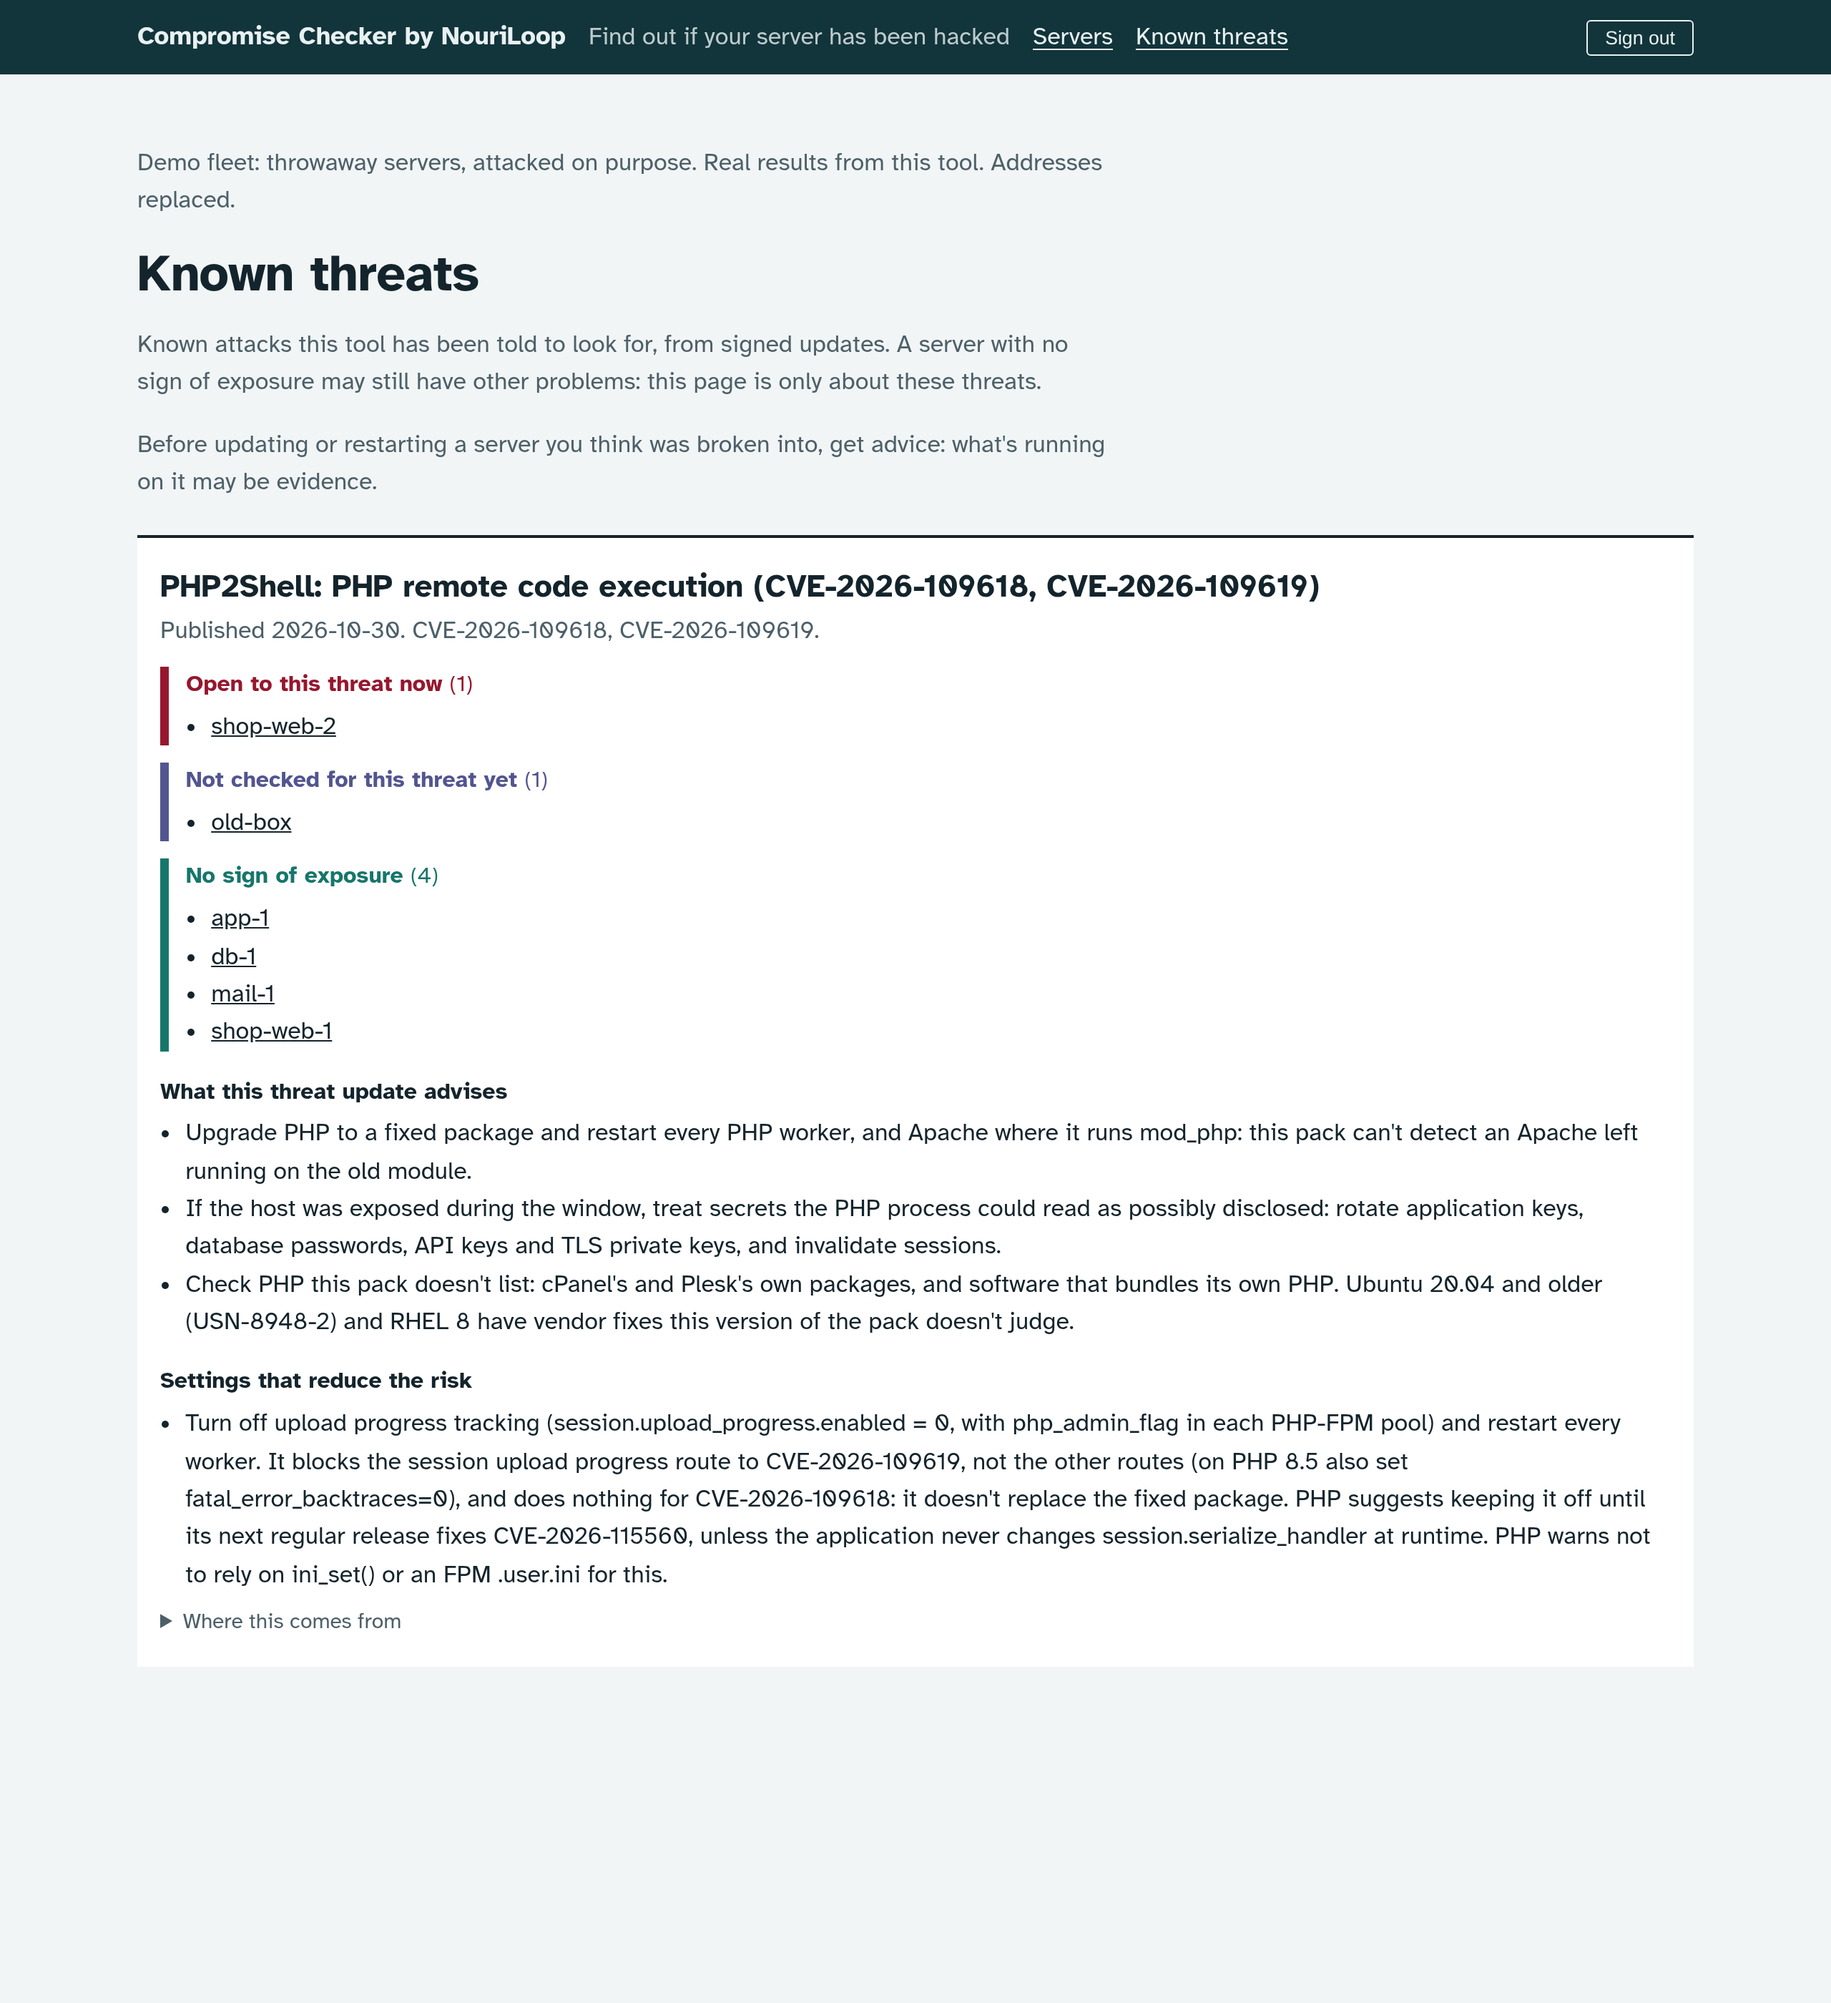
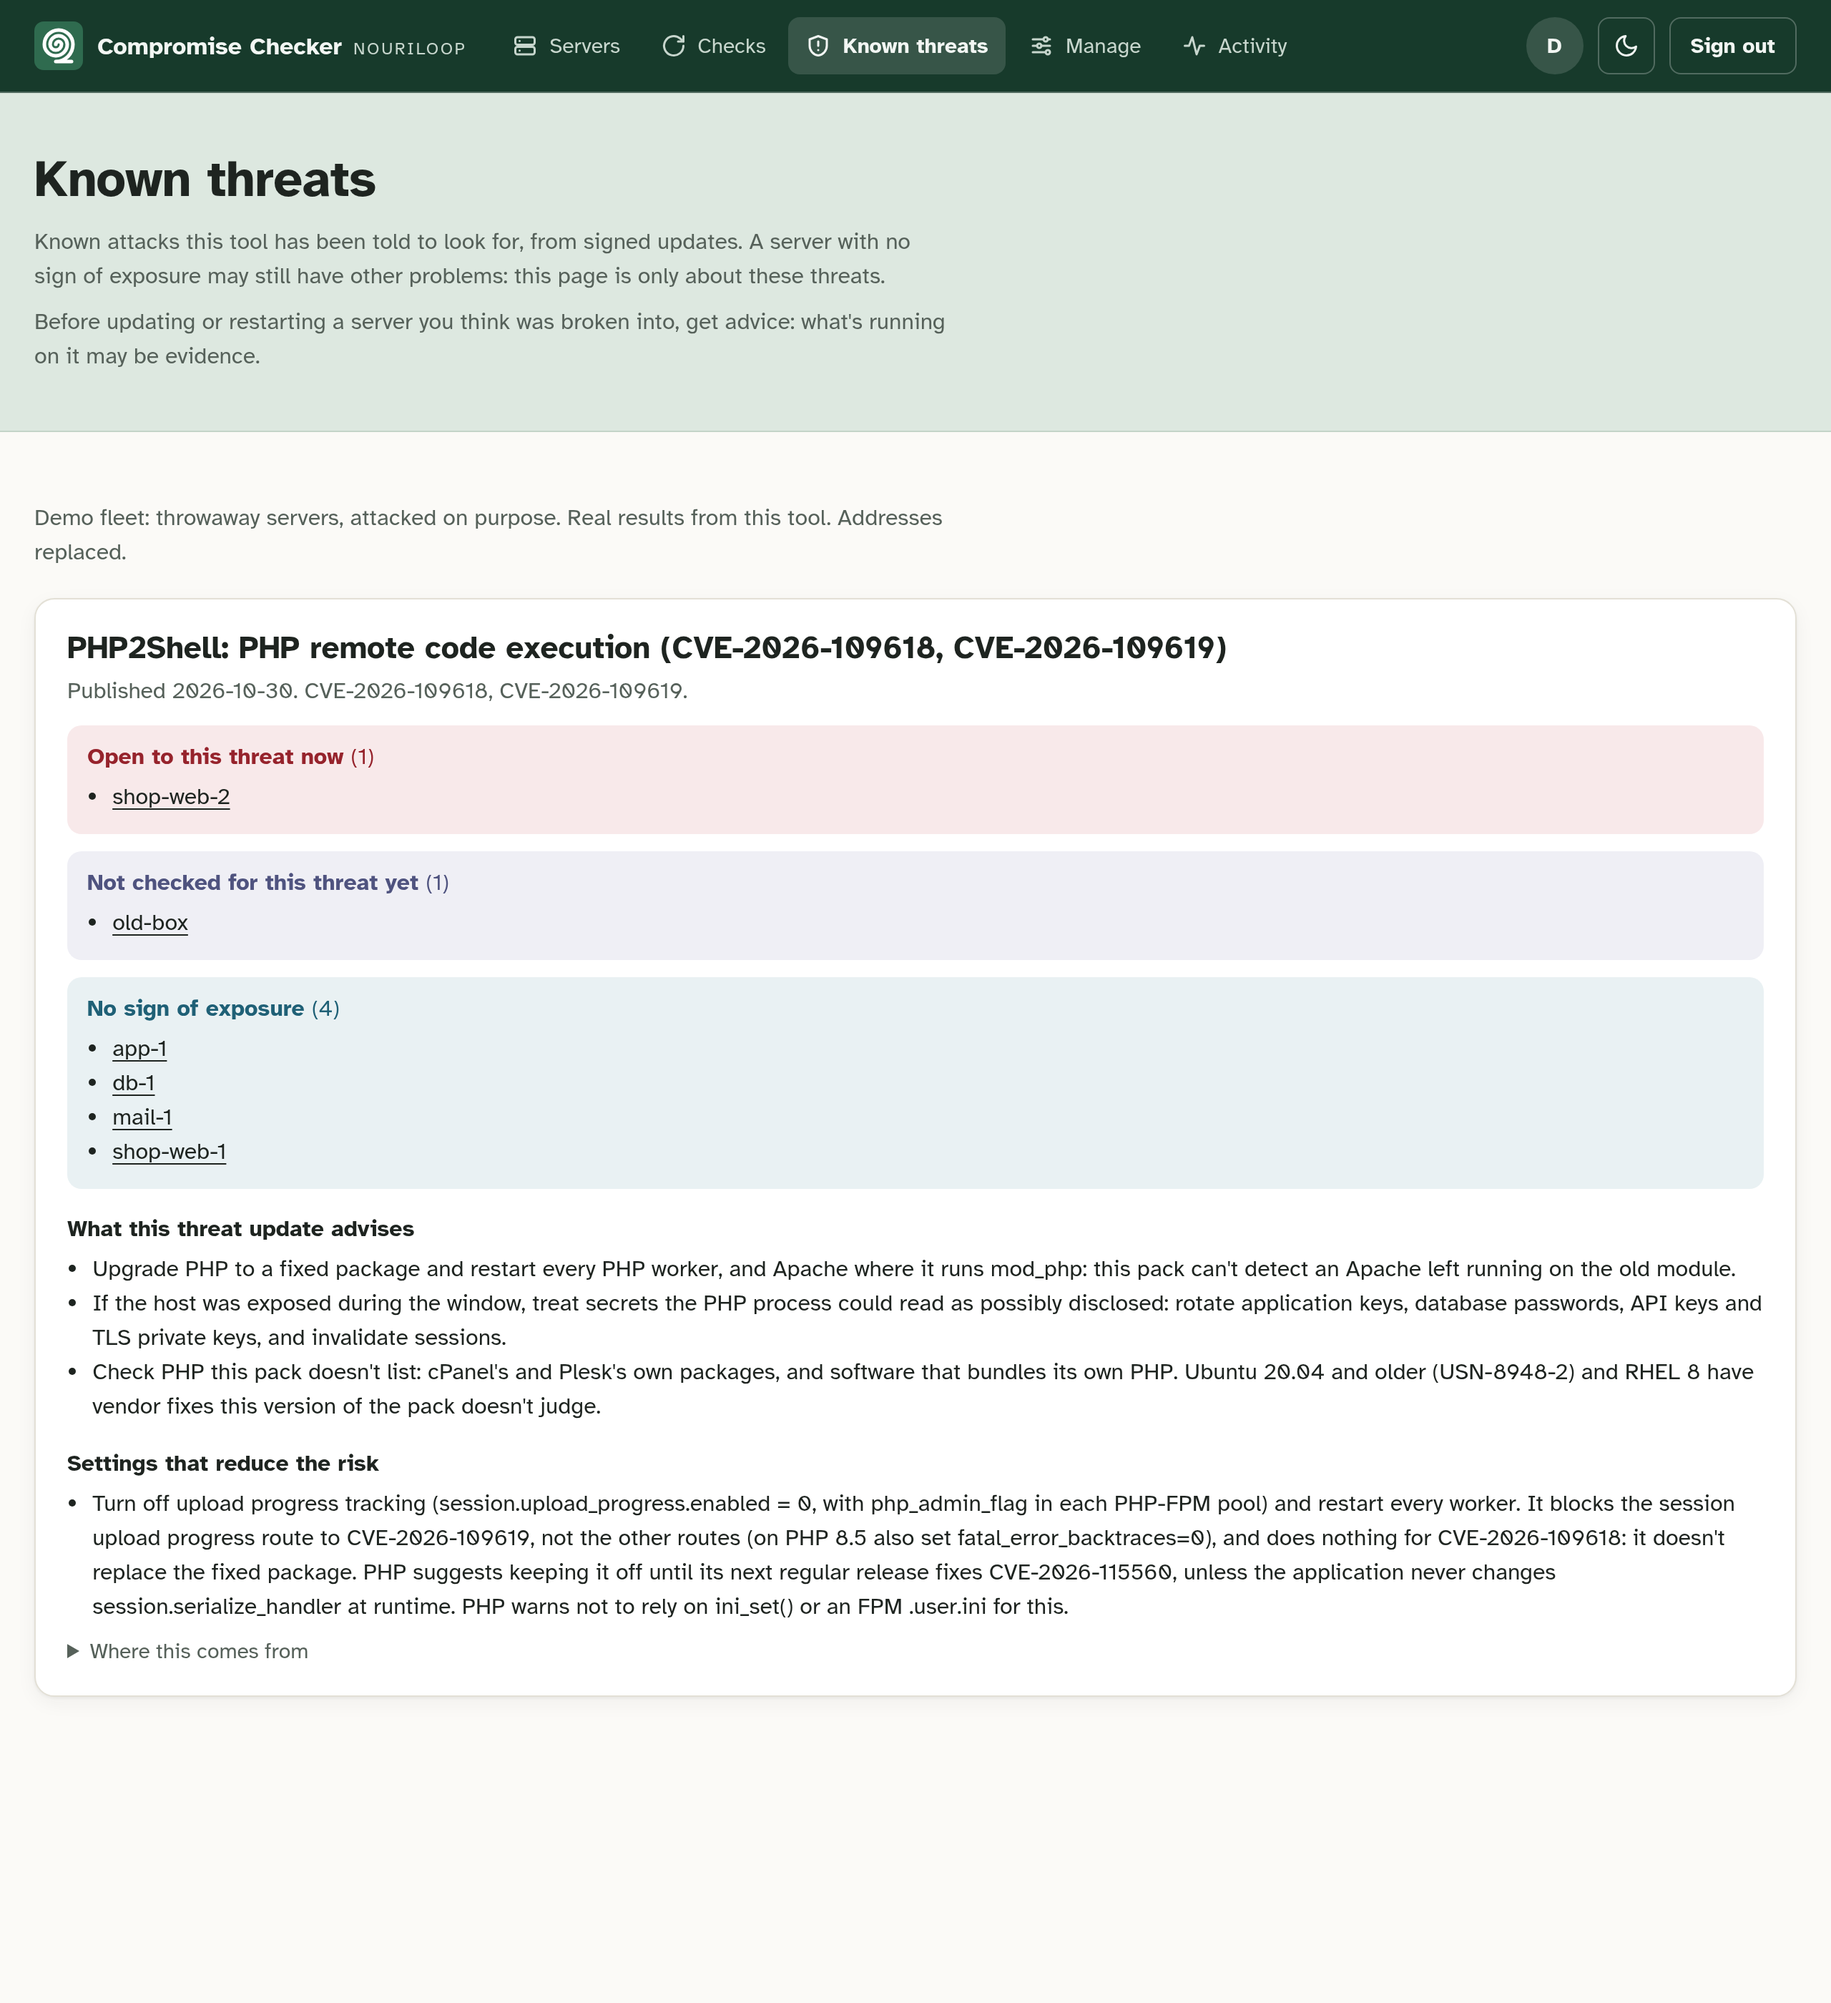
New screenshots in the new look, from a fresh demo fleet
The README's and docs/web.md's pictures showed the old look. They're
retaken from a new demo fleet run (five throwaway Linodes, all deleted):
shop-web-1 and db-1 attacked, shop-web-2 on vulnerable PHP, app-1 and
mail-1 clean, old-box unreachable.

The screenshot script needed three changes:
- Its one database update ran on Playwright's thread, which Django now
  refuses: it runs on a thread of its own.
- It deleted the old pictures before taking new ones, so a failed run left
  none. It writes into a new folder and swaps it in only when it finishes.
- The demo label went straight after <main>, which in the new layout is
  outside the padded column, and the name it gave the page repeated
  NouriLoop beside the bar's own NOURILOOP. The label goes in the column,
  and the name is the plain product name.

Changed region(s): [[0.0, 0.0, 1.0, 0.8389]]

diff --git a/tests/integration/screenshots.py b/tests/integration/screenshots.py
@@ -19,7 +19,9 @@ import secrets
 import shutil
 import socket
 import sys
+import tempfile
 import threading
+from concurrent.futures import ThreadPoolExecutor
 from pathlib import Path
 from wsgiref.simple_server import WSGIRequestHandler, make_server
 
@@ -76,9 +78,11 @@ def scrubbing(wsgi, protect: list[str], pages: list[str]):
             text = body.decode()
             text = named(golden.scrub(text, protect), NAMES)
             golden.check_scrubbed(text, protect)
-            if text and "<main>" not in text:  # a redirect has no body to label
+            # In the page's padded column, under its band if it has one.
+            column = '<div class="main-in">'
+            if text and column not in text:  # a redirect has no body to label
                 raise ValueError("no place for the demo fleet's label")
-            text = text.replace("<main>", f"<main>\n{BANNER}", 1)
+            text = text.replace(column, f"{column}\n{BANNER}", 1)
             pages.append(environ["PATH_INFO"])
             body = text.encode()
             headers = [(k, v) for k, v in headers if k.lower() != "content-length"]
@@ -98,7 +102,7 @@ def main() -> int:
     parser = argparse.ArgumentParser(description=__doc__.split("\n\n")[0])
     parser.add_argument("--home", type=Path, required=True)
     parser.add_argument("--out", type=Path, required=True)
-    parser.add_argument("--name", default="Compromise Checker by NouriLoop")
+    parser.add_argument("--name", default="Compromise Checker")
     parser.add_argument("--chromium", default=os.environ.get("CHROMIUM", "/usr/bin/chromium"))
     args = parser.parse_args()
     home = args.home.resolve()
@@ -128,44 +132,53 @@ def main() -> int:
     )
     threading.Thread(target=server.serve_forever, daemon=True).start()
     base = f"http://127.0.0.1:{server.server_port}"
-    shutil.rmtree(args.out, ignore_errors=True)  # nothing left from a run that stopped
-    args.out.mkdir(parents=True)
-    with sync_playwright() as play:
-        browser = play.chromium.launch(executable_path=args.chromium, args=["--no-sandbox"])
-        for name, path, width, scheme, whole in PAGES:
-            context = browser.new_context(
-                viewport={"width": width, "height": 1400 if width > 500 else 844},
-                color_scheme=scheme,
-                device_scale_factor=2,
-            )
-            page = context.new_page()
-            problems: list[str] = []
-            page.on("pageerror", lambda e, out=problems: out.append(str(e)))
-            page.goto(f"{base}/login")
-            page.fill("input[name=username]", "demo")
-            page.fill("input[name=password]", password)
-            page.click("main button")
-            page.wait_for_load_state()
-            TOTPDevice.objects.filter(pk=device.pk).update(last_t=-1)  # the next code still counts
-            page.fill("input[name=code]", f"{totp(device.bin_key):06d}")
-            page.click("main button")
-            page.wait_for_load_state()
-            response = page.goto(base + path)
-            if response.status != 200:
-                sys.exit(f"{path}: {response.status}")
-            page.wait_for_timeout(400)
-            page.screenshot(path=str(args.out / f"{name}.png"), full_page=whole)
-            print(
-                name,
-                "overflow"
-                if page.evaluate("document.documentElement.scrollWidth > innerWidth")
-                else "ok",
-                problems,
-            )
-            context.close()
-        browser.close()
+    # Into a new folder first: the pictures there now are replaced only by a run that finishes.
+    out = Path(tempfile.mkdtemp(prefix=".shots-", dir=args.out.parent))
+    try:
+        with sync_playwright() as play:
+            browser = play.chromium.launch(executable_path=args.chromium, args=["--no-sandbox"])
+            for name, path, width, scheme, whole in PAGES:
+                context = browser.new_context(
+                    viewport={"width": width, "height": 1400 if width > 500 else 844},
+                    color_scheme=scheme,
+                    device_scale_factor=2,
+                )
+                page = context.new_page()
+                problems: list[str] = []
+                page.on("pageerror", lambda e, out=problems: out.append(str(e)))
+                page.goto(f"{base}/login")
+                page.fill("input[name=username]", "demo")
+                page.fill("input[name=password]", password)
+                page.click("main button")
+                page.wait_for_load_state()
+                # The next code still counts. On its own thread: Playwright's loop runs on
+                # this one, and Django won't touch the database from a thread with a loop.
+                with ThreadPoolExecutor(1) as one:
+                    one.submit(TOTPDevice.objects.filter(pk=device.pk).update, last_t=-1).result()
+                page.fill("input[name=code]", f"{totp(device.bin_key):06d}")
+                page.click("main button")
+                page.wait_for_load_state()
+                response = page.goto(base + path)
+                if response.status != 200:
+                    sys.exit(f"{path}: {response.status}")
+                page.wait_for_timeout(400)
+                page.screenshot(path=str(out / f"{name}.png"), full_page=whole)
+                print(
+                    name,
+                    "overflow"
+                    if page.evaluate("document.documentElement.scrollWidth > innerWidth")
+                    else "ok",
+                    problems,
+                )
+                context.close()
+            browser.close()
+    except BaseException:  # a run that stops leaves the pictures as they were
+        shutil.rmtree(out, ignore_errors=True)
+        raise
     server.shutdown()
     (home / "web.db").unlink(missing_ok=True)
+    shutil.rmtree(args.out, ignore_errors=True)
+    out.rename(args.out)
     print(f"{len(seen)} pages scrubbed and checked")
     return 0
 
